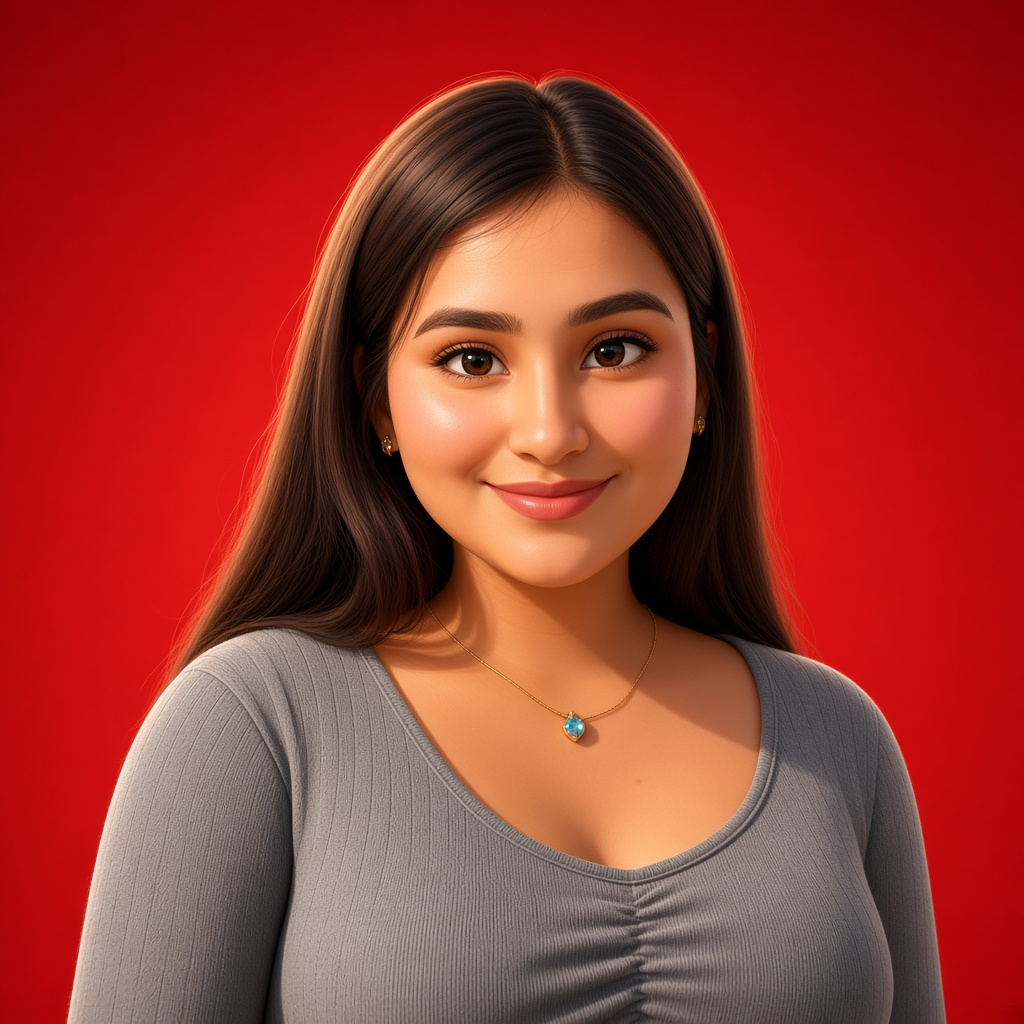
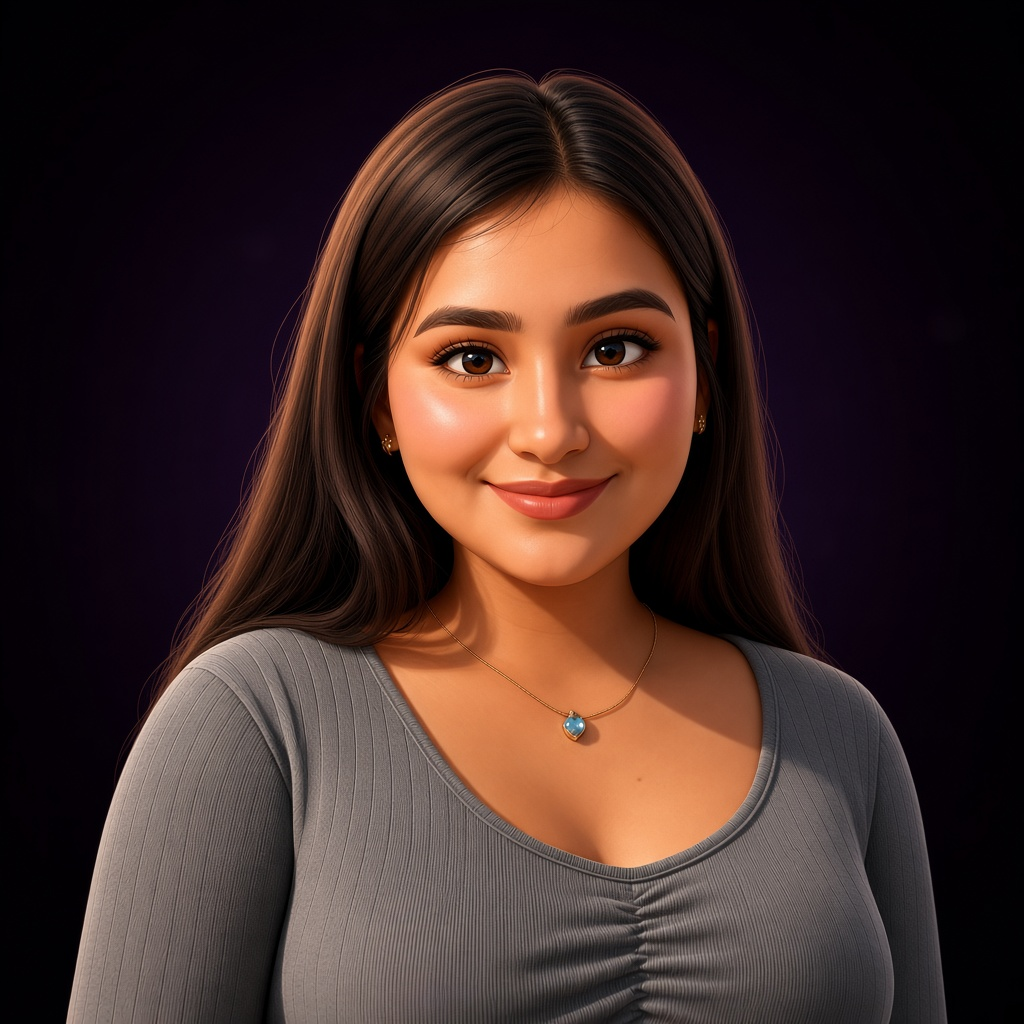
feat(about): retrato 3D desde foto + animación flotante provisional

diff --git a/src/components/sections/AboutPortrait.tsx b/src/components/sections/AboutPortrait.tsx
@@ -1,0 +1,23 @@
+type AboutPortraitProps = {
+	alt: string;
+};
+
+export function AboutPortrait({ alt }: AboutPortraitProps) {
+	return (
+		<div className="about-portrait-stage relative flex h-full w-full items-end justify-center">
+			<div
+				className="about-portrait-glow pointer-events-none absolute inset-[8%] rounded-full bg-[radial-gradient(circle,rgb(255_0_138_/_0.18)_0%,transparent_68%)]"
+				aria-hidden="true"
+			/>
+			<img
+				src="/about/portrait-3d.png"
+				alt={alt}
+				width={1024}
+				height={1024}
+				className="about-portrait relative z-[1] max-h-full w-auto max-w-full object-contain object-bottom drop-shadow-[0_20px_48px_rgb(0_0_0_/_0.45)]"
+				loading="lazy"
+				decoding="async"
+			/>
+		</div>
+	);
+}

diff --git a/src/styles/global.css b/src/styles/global.css
@@ -251,12 +251,33 @@
 	.about-animation-slot {
 		min-height: clamp(16rem, 42vw, 22rem);
 		aspect-ratio: 1;
-		overflow: hidden;
-		border-radius: 1rem;
+		display: flex;
+		align-items: flex-end;
+		justify-content: center;
+	}
+
+	.about-portrait-stage {
+		animation: about-portrait-float 7s ease-in-out infinite;
 	}
 
 	.about-portrait {
 		display: block;
+	}
+
+	@keyframes about-portrait-float {
+		0%,
+		100% {
+			transform: translateY(0);
+		}
+		50% {
+			transform: translateY(-0.65rem);
+		}
+	}
+
+	@media (prefers-reduced-motion: reduce) {
+		.about-portrait-stage {
+			animation: none;
+		}
 	}
 
 	@media (min-width: 768px) {
